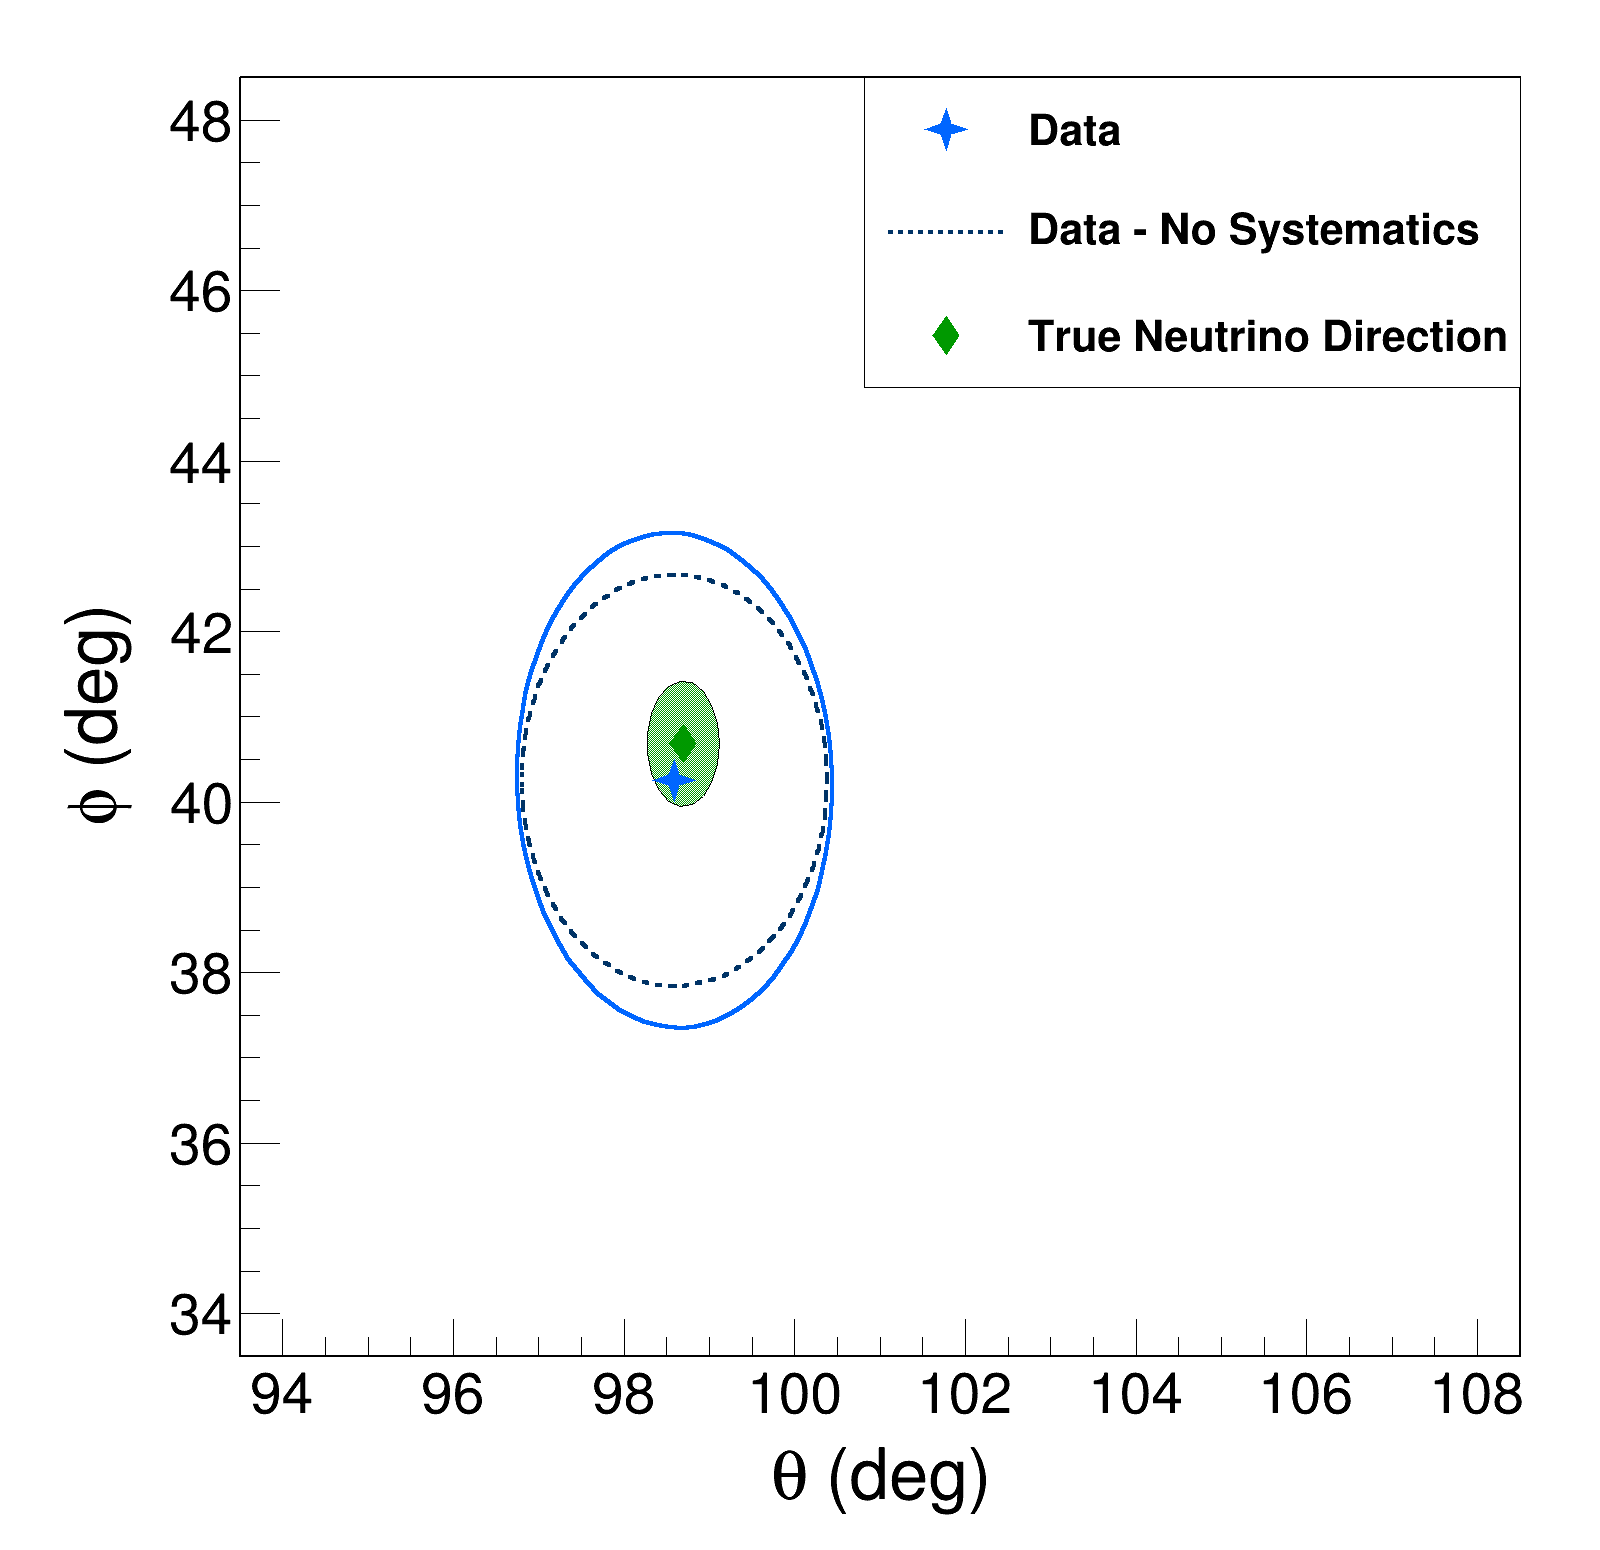
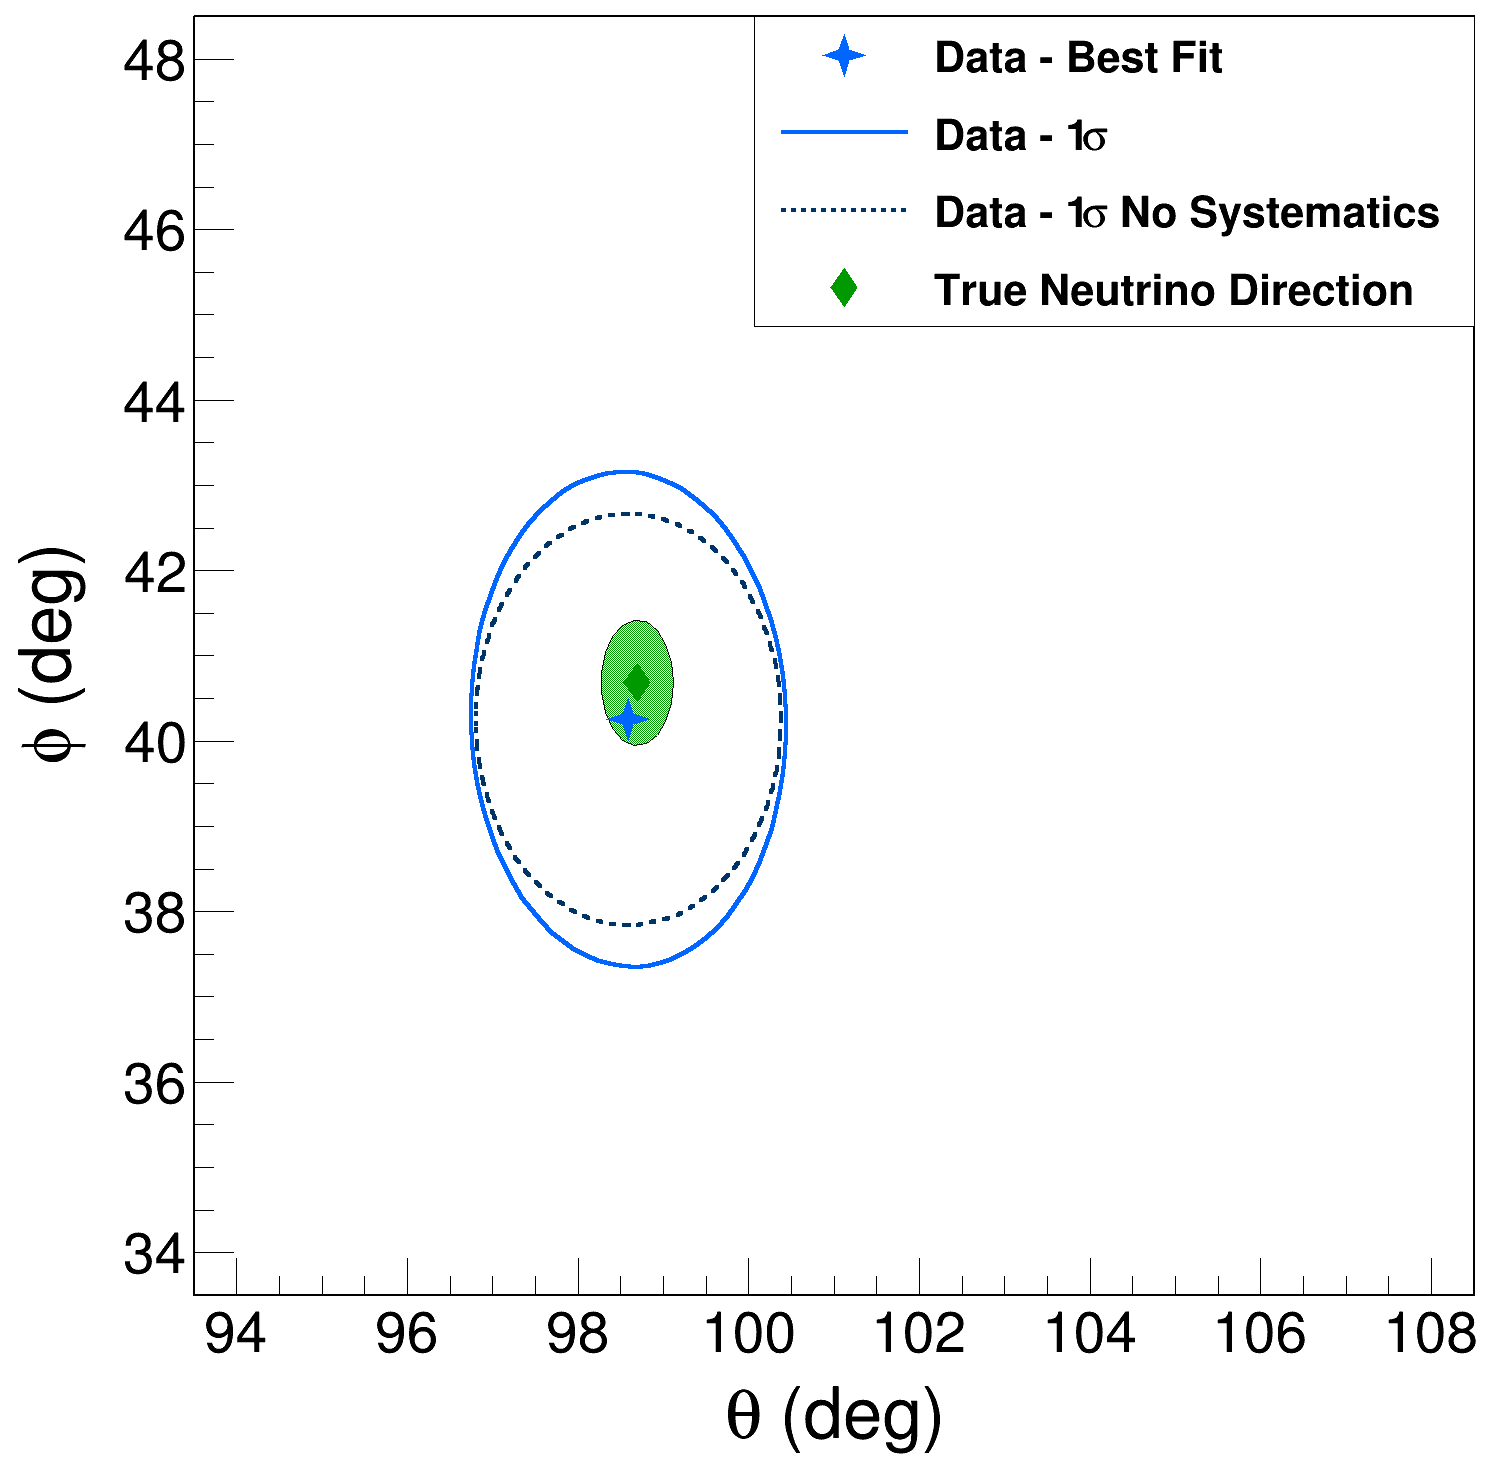
Added 1 sigma ellipse outline to legend.

diff --git a/NeutrinoDirectionalityPlots.cc b/NeutrinoDirectionalityPlots.cc
@@ -321,13 +321,18 @@ void MakeFinalPlot(FinalValues const& finalValues)
     statsLine.SetLineColor(kAzure + 3);
     statsLine.SetLineStyle(7);
     statsLine.SetLineWidth(4);
-    statsLine.Draw();
 
-    TLegend legend(0.54, 0.75, 0.95, 0.95);
+    TLine dataLine(0.2, 0.2, 0.4, 0.4);
+    dataLine.SetLineColor(kAzure - 3);
+    dataLine.SetLineStyle(1);
+    dataLine.SetLineWidth(4);
+
+    TLegend legend(0.50, 0.75, 0.95, 0.95);
     legend.SetTextFont(62);
     legend.SetTextSize(0.03);
-    legend.AddEntry(&dataPoint, "Data", "p");
-    legend.AddEntry(&statsLine, "Data - No Systematics", "l");
+    legend.AddEntry(&dataPoint, "Data - Best Fit", "p");
+    legend.AddEntry(&dataLine, "Data - 1#sigma", "l");
+    legend.AddEntry(&statsLine, "Data - 1#sigma No Systematics", "l");
     //legend.AddEntry(&simPoint, "Simulation", "p");
     legend.AddEntry(&truePoint, "True Neutrino Direction", "p");
     legend.Draw();
